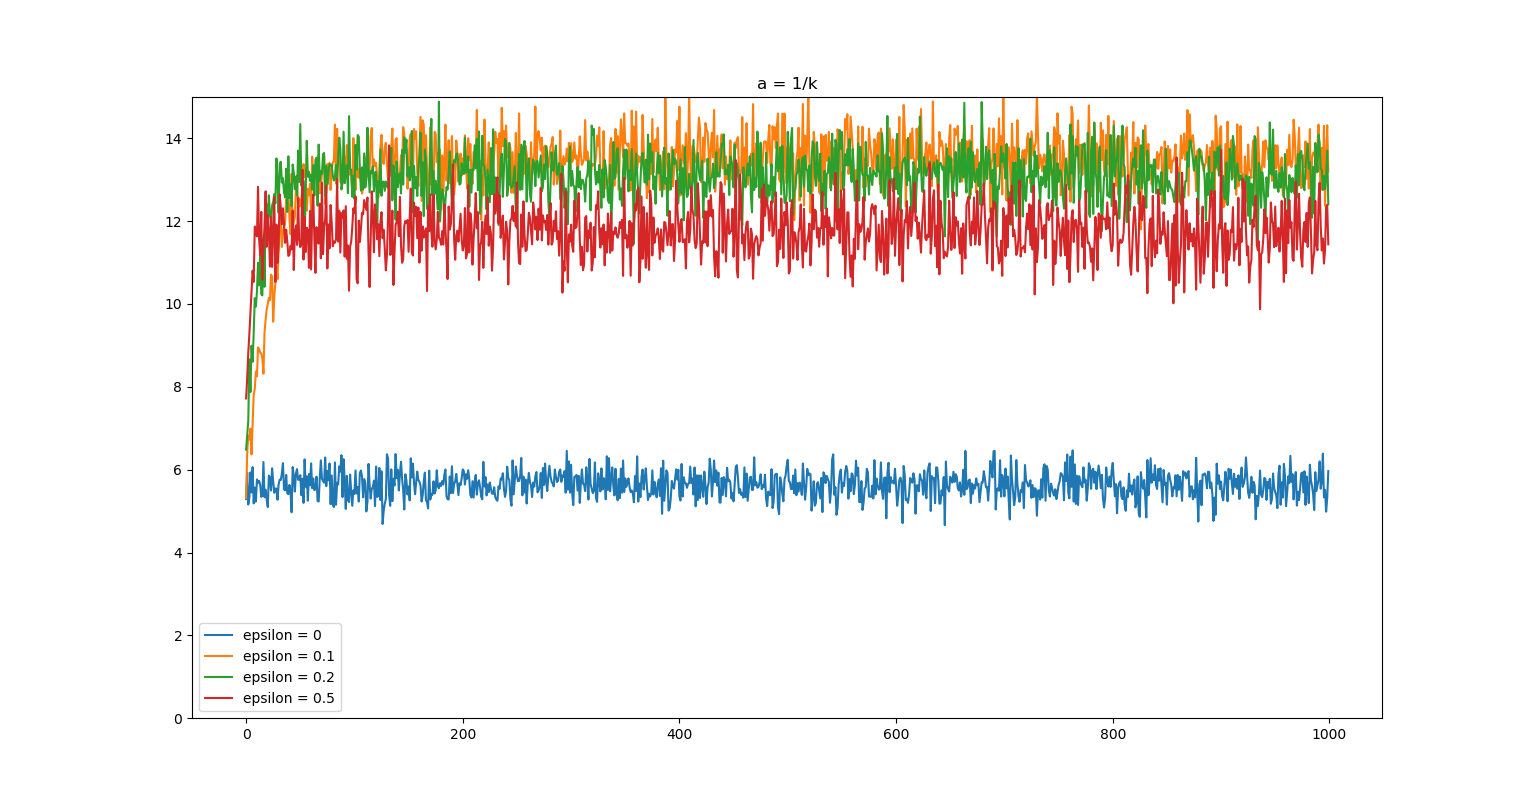
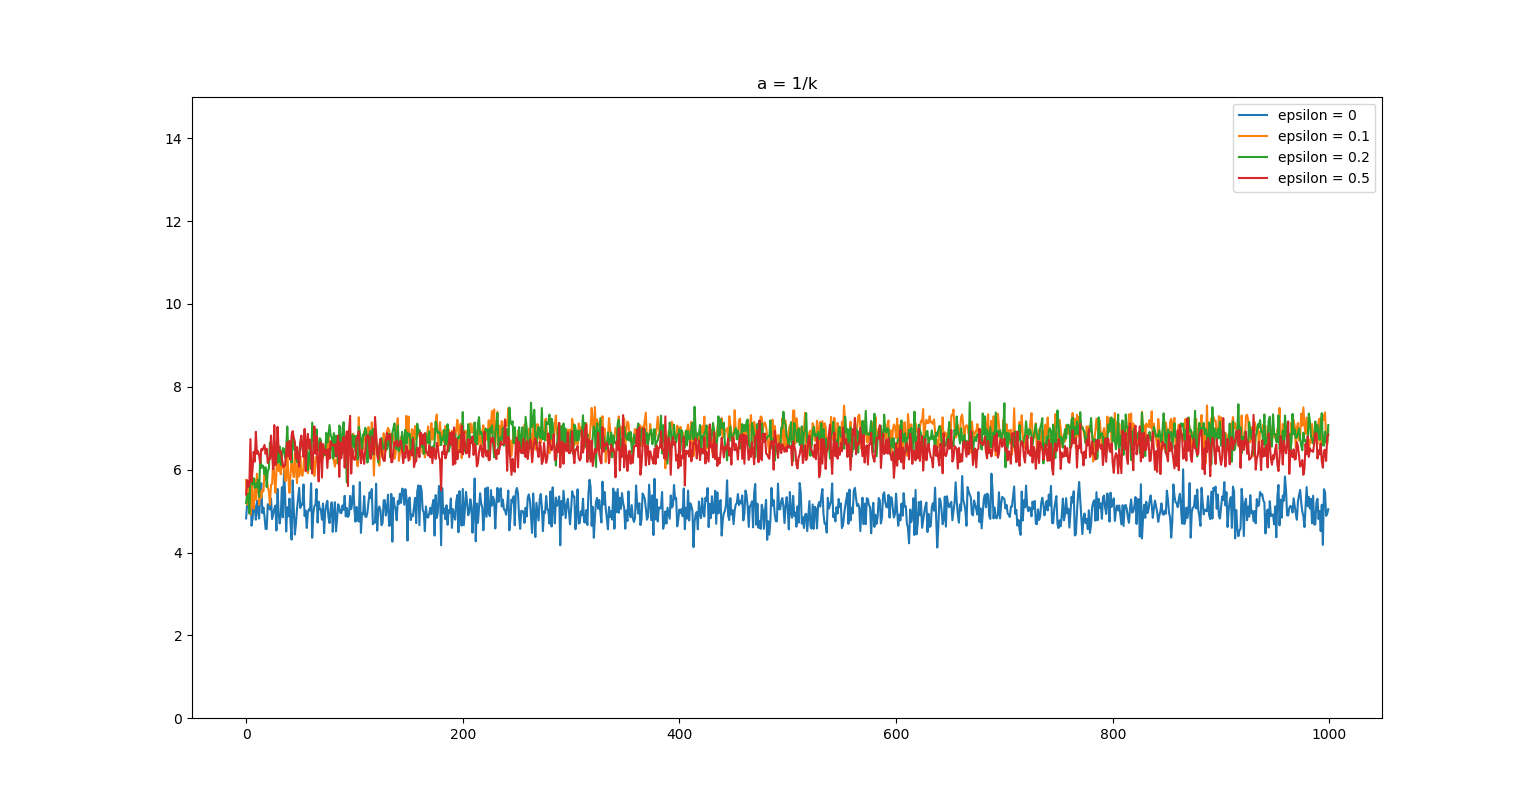
Reran HW1 with correct distro

Changed region(s): [[0.1562, 0.1239, 0.9062, 0.6815], [0.125, 0.7745, 0.2188, 0.8984]]

diff --git a/HW1/hw1implementation.py b/HW1/hw1implementation.py
@@ -7,7 +7,7 @@ import csv
 
 # Create bandit with specified distributions
 l1 = lambda : random.normal(5, 10**(1/2))
-l2 = lambda : sum(random.normal([10,4], [15**(1/2), 10**(1/2)])) 
+l2 = lambda : 0.5*sum(random.normal([10,4], [15**(1/2), 10**(1/2)])) 
 bandit = Bandit(2, [l1, l2])
 
 # Section a.) 
